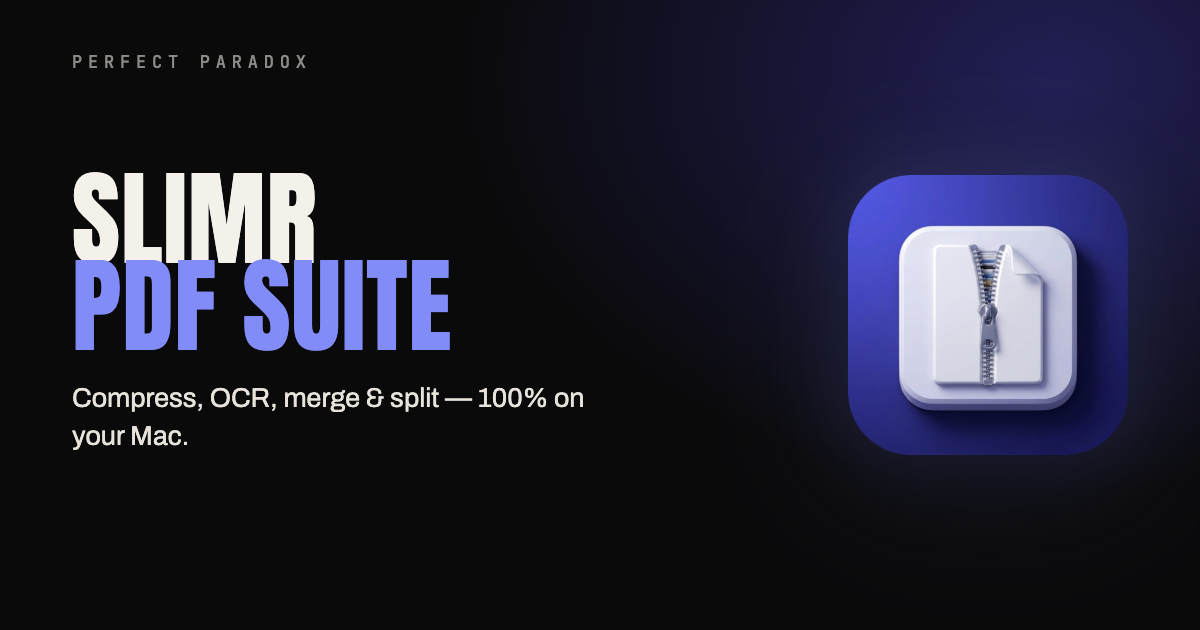
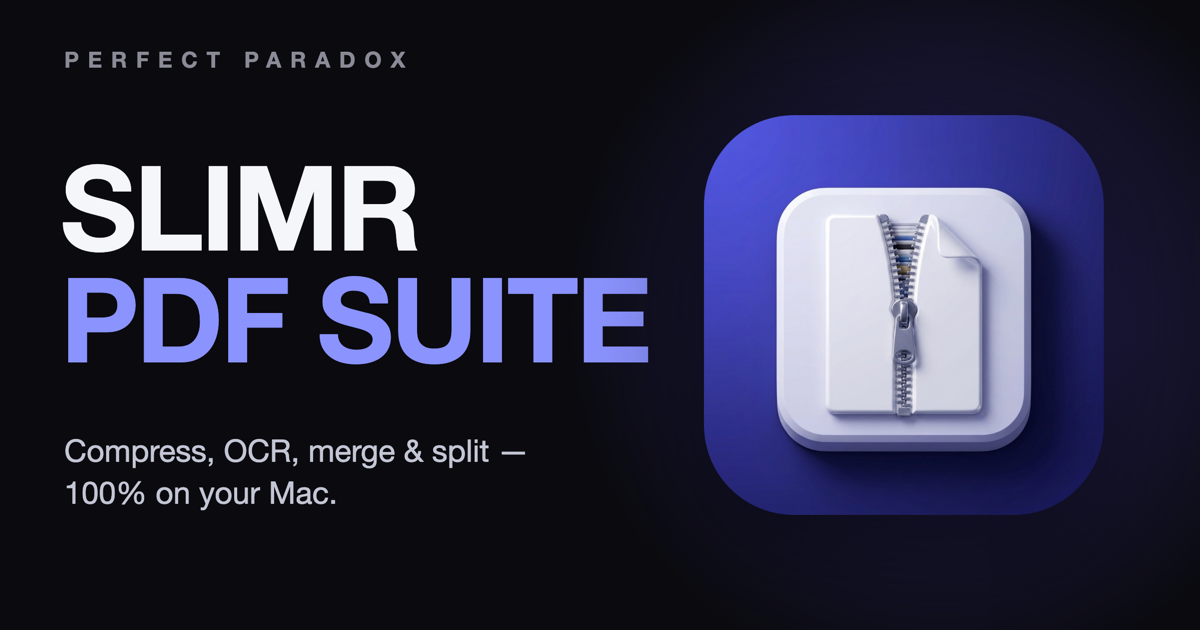
Slimr 0.1.2 — multiidioma (7 idiomas)

diff --git a/_og/og.html b/_og/og.html
@@ -1,0 +1,49 @@
+<!DOCTYPE html>
+<html>
+<head>
+<meta charset="utf-8">
+<style>
+  html,body{margin:0;padding:0}
+  .og{
+    width:1200px;height:630px;position:relative;overflow:hidden;
+    background:#0a0a0f;
+    font-family:"Helvetica Neue",Arial,sans-serif;
+  }
+  .glow{
+    position:absolute;right:-120px;top:50%;transform:translateY(-50%);
+    width:760px;height:760px;border-radius:50%;
+    background:radial-gradient(circle, rgba(91,79,224,.55) 0%, rgba(91,79,224,.18) 38%, rgba(10,10,15,0) 70%);
+  }
+  .brand{
+    position:absolute;left:64px;top:46px;
+    font-size:22px;font-weight:600;letter-spacing:9px;color:#8a8b96;
+  }
+  .title{
+    position:absolute;left:60px;top:150px;line-height:.95;
+  }
+  .title .l1{font-size:118px;font-weight:800;letter-spacing:-3px;color:#f5f6fa;margin:0}
+  .title .l2{font-size:118px;font-weight:800;letter-spacing:-3px;color:#8b93ff;margin:0}
+  .sub{
+    position:absolute;left:64px;top:430px;
+    font-size:31px;font-weight:400;line-height:1.35;color:#c3c6d4;max-width:560px;
+  }
+  .logo{
+    position:absolute;right:96px;top:50%;transform:translateY(-50%);
+    width:400px;height:400px;
+    filter:drop-shadow(0 30px 60px rgba(0,0,0,.55));
+  }
+</style>
+</head>
+<body>
+<div class="og">
+  <div class="glow"></div>
+  <div class="brand">PERFECT PARADOX</div>
+  <div class="title">
+    <p class="l1">SLIMR</p>
+    <p class="l2">PDF SUITE</p>
+  </div>
+  <div class="sub">Compress, OCR, merge &amp; split &mdash;<br>100% on your Mac.</div>
+  <img class="logo" src="icon.png" alt="Slimr">
+</div>
+</body>
+</html>